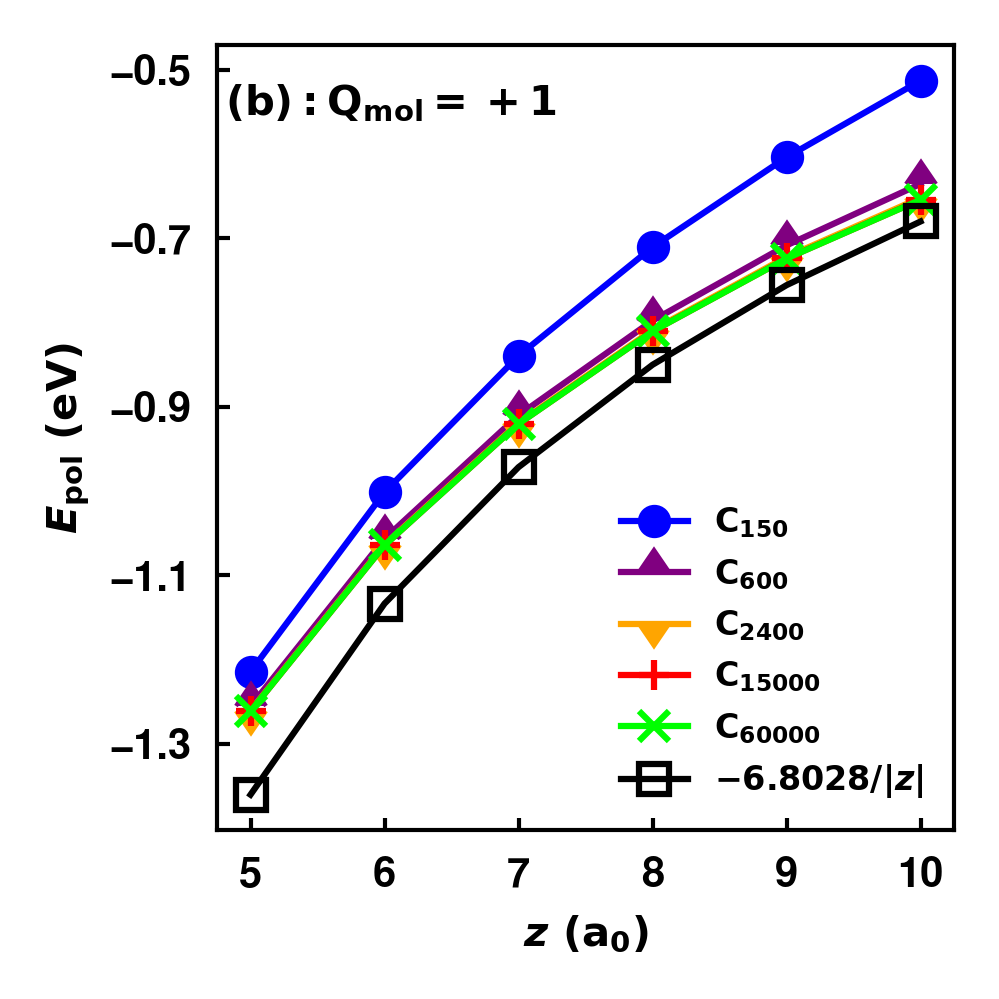
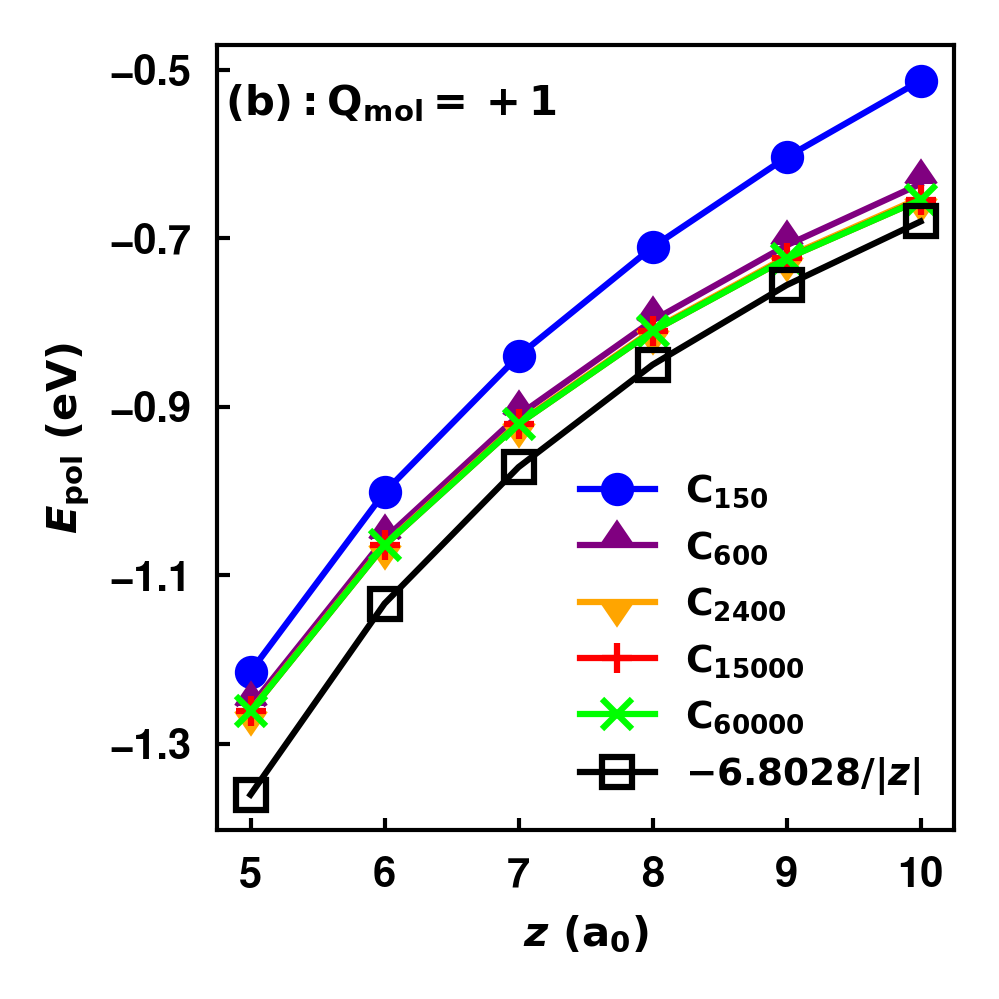
Post figure 2 and figure 3 merge. Moving files and deleting them

Changed region(s): [[0.5586, 0.4655, 0.9309, 0.8068]]

diff --git a/data/polarization_potential/figure_4/figure_4.py b/data/polarization_potential/figure_4/figure_4.py
@@ -18,41 +18,35 @@ rc('axes',linewidth=1,edgecolor='k')
 
 x_dat=np.arange(5,10,0.01)
 
-def func(x, a):  
-    return a/x
+def func_fixed(x,b):  
+    return -6.802846561497/np.abs(x-b)
 
 pot = []
-for filename in sorted(glob.glob("figure_3.csv", recursive=True)):
+for filename in sorted(glob.glob("figure_4.csv", recursive=True)):
     Source = os.path.splitext(filename)[0].split(".")[0]
     data = pd.read_csv(filename, sep=",", dtype=np.float64)
     data_array = data.to_numpy()
     num_rows, num_cols = data_array.shape
     z = data_array[:,0]
-    MMA1 = data_array[:,1]*27.211386245988
-    MMA2 = data_array[:,2]*27.211386245988
-    impot = data_array[:,3]*27.211386245988
-
+    MMA2 = data_array[:,1]*27.211386245988
+    impot = data_array[:,2]*27.211386245988
 
 fig, axs = plt.subplots(1, 1, figsize=(3.33,3.33))
 
-axs.plot(x_dat,-27.211386245988/(4*x_dat),color="black",linestyle='-',markersize=0.01,marker="s",linewidth=2,mfc='none',markeredgewidth=1.5,label=r"$\mathrm{-6.8028/}|\mathit{z}|$")
+axs.plot(x_dat,-27.211386245988/(4*np.abs(x_dat-1.9804329786078072)),color="black",linestyle='-',markersize=0.01,marker="s",linewidth=2,mfc='none',markeredgewidth=1.5,label=r"$\mathrm{-6.8028/|}\mathit{z}\mathrm{-1.98|}$")
 axs.scatter(z,impot,color="black",s=60,facecolors='none',edgecolor='k',linewidth=1.5,marker="s") 
 
-popt, pcov = curve_fit(func,z,MMA1) 
-popt2, pcov2 = curve_fit(func,z,MMA2) 
-axs.plot(x_dat,func(x_dat,*popt),color="red",marker='o',markersize=0.01,linewidth=2,linestyle='-',label=r"$\mathrm{{MMA1:}}{:.4f}/|\mathit{{z}}|$".format(popt[0]))
-axs.plot(x_dat,func(x_dat,*popt2),color="green",marker='^',markersize=0.01,linewidth=2,linestyle='-',label=r"$\mathrm{{MMA2:}}{:.4f}/|\mathit{{z}}|$".format(popt2[0]))
-axs.scatter(z,MMA1,color="red",s=50,marker="o")
+popt4, pcov4 = curve_fit(func_fixed,z,MMA2) 
+axs.plot(x_dat,func_fixed(x_dat,*popt4),color="green",marker='^',markersize=0.01,linewidth=2,linestyle='-',label=r"$MMA2: -6.8028\mathrm{{/|}}\mathit{{z}}-{:.4f}\mathrm{{|}}$".format(popt4[0]))
 axs.scatter(z,MMA2,color="green",s=50,marker="^")
 
-axs.set_xlabel(r"$\mathit{z} \ (a_0)$")    
+axs.set_xlabel(r"$\mathit{z} \ (a_0)$")  
 axs.set_xticks([5,6,7,8,9,10])
-axs.set_yticks([-0.6,-0.8,-1.0,-1.2,-1.4])
 axs.xaxis.set_tick_params(direction="in",length=3,width=1,pad=6.25)
 axs.yaxis.set_tick_params(direction="in",length=3,width=1,pad=6.25)
 axs.grid(False)
-axs.legend(loc="best", frameon=False, markerscale=600, fontsize=9)
+axs.legend(loc="best", frameon=False, fontsize=7, markerscale=600)
 axs.set_ylabel(r"$\mathit{E}_{pol} \ \mathrm{\left( eV \right)}$")
 
 fig.set_tight_layout(True)
-plt.savefig("figure_3.png", dpi=300)
+plt.savefig("figure_4.png", dpi=300)

diff --git a/data/polarization_potential/figure_2/figure_2_c.py b/data/polarization_potential/figure_2/figure_2_c.py
@@ -1,0 +1,59 @@
+import numpy as np
+import matplotlib.pyplot as plt
+from scipy import stats
+import pandas as pd
+import glob 
+import os
+import matplotlib.ticker as mtick
+from matplotlib import rc
+from matplotlib.font_manager import FontProperties
+from scipy.optimize import curve_fit
+
+
+params = {'mathtext.default': 'bf'}
+plt.rcParams.update(params)
+plt.rcParams.update({'font.size': 10})
+rc('font', family='Nimbus Sans', weight='bold')
+rc('axes',linewidth=1,edgecolor='k')
+
+x_dat=np.arange(5,10,0.01)
+
+def func(x, a):  
+    return a/x
+
+pot = []
+for filename in sorted(glob.glob("figure_2_c.csv", recursive=True)):
+    Source = os.path.splitext(filename)[0].split(".")[0]
+    data = pd.read_csv(filename, sep=",", dtype=np.float64)
+    data_array = data.to_numpy()
+    num_rows, num_cols = data_array.shape
+    z = data_array[:,0]
+    MMA1 = data_array[:,1]*27.211386245988
+    MMA2 = data_array[:,2]*27.211386245988
+    impot = data_array[:,3]*27.211386245988
+
+
+fig, axs = plt.subplots(1, 1, figsize=(3.33,3.33))
+
+axs.plot(x_dat,-27.211386245988/(4*x_dat),color="black",linestyle='-',markersize=0.01,marker="s",linewidth=2,mfc='none',markeredgewidth=1.5,label=r"$\mathrm{-6.8028/}|\mathit{z}|$")
+axs.scatter(z,impot,color="black",s=60,facecolors='none',edgecolor='k',linewidth=1.5,marker="s") 
+
+popt, pcov = curve_fit(func,z,MMA1) 
+popt2, pcov2 = curve_fit(func,z,MMA2) 
+axs.plot(x_dat,func(x_dat,*popt),color="red",marker='o',markersize=0.01,linewidth=2,linestyle='-',label=r"$\mathrm{{MMA1:}}{:.4f}/|\mathit{{z}}|$".format(popt[0]))
+axs.plot(x_dat,func(x_dat,*popt2),color="green",marker='^',markersize=0.01,linewidth=2,linestyle='-',label=r"$\mathrm{{MMA2:}}{:.4f}/|\mathit{{z}}|$".format(popt2[0]))
+axs.scatter(z,MMA1,color="red",s=50,marker="o")
+axs.scatter(z,MMA2,color="green",s=50,marker="^")
+axs.text(6.0,-0.65,r"$\mathrm{(c): Q_{mol}=+1}$",horizontalalignment='center',verticalalignment='center')
+
+axs.set_xlabel(r"$\mathit{z} \ (a_0)$")    
+axs.set_xticks([5,6,7,8,9,10])
+axs.set_yticks([-0.6,-0.8,-1.0,-1.2,-1.4])
+axs.xaxis.set_tick_params(direction="in",length=3,width=1,pad=6.25)
+axs.yaxis.set_tick_params(direction="in",length=3,width=1,pad=6.25)
+axs.grid(False)
+axs.legend(loc="best", frameon=False, markerscale=600, fontsize=9)
+axs.set_ylabel(r"$\mathit{E}_{pol} \ \mathrm{\left( eV \right)}$")
+
+fig.set_tight_layout(True)
+plt.savefig("figure_2_c.png", dpi=300)

diff --git a/data/polarization_potential/figure_5/figure_5.py b/data/polarization_potential/figure_5/figure_5.py
@@ -18,8 +18,8 @@ rc('axes',linewidth=1,edgecolor='k')
 
 x_dat=np.arange(5,10,0.01)
 
-def func_fixed(x,b):  
-    return -6.802846561497/np.abs(x-b)
+def func(x, a):  
+    return a/x
 
 pot = []
 for filename in sorted(glob.glob("figure_5.csv", recursive=True)):
@@ -31,22 +31,23 @@ for filename in sorted(glob.glob("figure_5.csv", recursive=True)):
     MMA2 = data_array[:,1]*27.211386245988
     impot = data_array[:,2]*27.211386245988
 
+
 fig, axs = plt.subplots(1, 1, figsize=(3.33,3.33))
 
-axs.plot(x_dat,-27.211386245988/(4*np.abs(x_dat-1.9804329786078072)),color="black",linestyle='-',markersize=0.01,marker="s",linewidth=2,mfc='none',markeredgewidth=1.5,label=r"$\mathrm{-6.8028/|}\mathit{z}\mathrm{-1.98|}$")
-axs.scatter(z,impot,color="black",s=60,facecolors='none',edgecolor='k',linewidth=1.5,marker="s") 
+axs.plot(x_dat,-13.6057/x_dat,color="black",markersize=0.01,marker="s",linewidth=2,mfc='none',markeredgewidth=1.5,label=r"$\mathrm{-13.6057/|}\mathit{z}|$")
+axs.scatter(z,impot,color="black",s=60,linestyle='-',marker="s",linewidth=1.5,edgecolors='k',facecolors='none') 
 
-popt4, pcov4 = curve_fit(func_fixed,z,MMA2) 
-axs.plot(x_dat,func_fixed(x_dat,*popt4),color="green",marker='^',markersize=0.01,linewidth=2,linestyle='-',label=r"$MMA2: -6.8028\mathrm{{/|}}\mathit{{z}}-{:.4f}\mathrm{{|}}$".format(popt4[0]))
+popt, pcov = curve_fit(func,z,MMA2) 
+axs.plot(x_dat,func(x_dat,*popt),color="green",marker="^",markersize=0.01,linewidth=2,linestyle='-',label=r"$\mathrm{{MMA2:}}{:.4f}/|\mathit{{z}}|$".format(popt[0]))
 axs.scatter(z,MMA2,color="green",s=50,marker="^")
 
-axs.set_xlabel(r"$\mathit{z} \ (a_0)$")  
+axs.set_xlabel(r"$\mathit{z} \ (a_0)$")    
 axs.set_xticks([5,6,7,8,9,10])
 axs.xaxis.set_tick_params(direction="in",length=3,width=1,pad=6.25)
 axs.yaxis.set_tick_params(direction="in",length=3,width=1,pad=6.25)
 axs.grid(False)
-axs.legend(loc="best", frameon=False, fontsize=7, markerscale=600)
-axs.set_ylabel(r"$\mathit{E}_{pol} \ \mathrm{\left( eV \right)}$")
+axs.legend(loc="best", frameon=False, fontsize=8, markerscale=600)
+axs.set_ylabel(r"$\mathit{E}_{int} \ \mathrm{\left( eV \right)}$")
 
 fig.set_tight_layout(True)
 plt.savefig("figure_5.png", dpi=300)

diff --git a/data/polarization_potential/figure_2/figure_2.py b/data/polarization_potential/figure_2/figure_2.py
@@ -48,6 +48,7 @@ axs.set_yticks([-0.1,-0.3,-0.5,-0.7,-0.9,-1.1,-1.3])
 axs.xaxis.set_tick_params(direction="in",length=3,width=1,pad=6.25)
 axs.yaxis.set_tick_params(direction="in",length=3,width=1,pad=6.25)
 axs.grid(False)
+axs.legend(loc="lower right", frameon=False, fontsize=7)
 
 fig.set_tight_layout(True)
 plt.savefig("figure_2_a.png", dpi=300)
@@ -85,7 +86,7 @@ axs.set_yticks([-0.5,-0.7,-0.9,-1.1,-1.3])
 axs.xaxis.set_tick_params(direction="in",length=3,width=1,pad=6.25)
 axs.yaxis.set_tick_params(direction="in",length=3,width=1,pad=6.25)
 axs.grid(False)
-axs.legend(loc="lower right", frameon=False, fontsize=8)
+axs.legend(loc="lower right", frameon=False, fontsize=9)
 
 fig.set_tight_layout(True)
 plt.savefig("figure_2_b.png", dpi=300)

diff --git a/data/charge_density/h_equals_10/figure_3b.py b/data/charge_density/h_equals_10/figure_3b.py
@@ -87,4 +87,4 @@ axs.set_xlabel(r"$\mathit{R} \ (a_{0})$")
 axs.set_ylabel(r"$\mathit{q}_{Cumulative} \ (e)$")
 
 fig.set_tight_layout(True)
-plt.savefig("figure_4_b.png",dpi=300)
+plt.savefig("figure_3_b.png",dpi=300)

diff --git a/data/charge_density/h_equals_5/figure_3a.py b/data/charge_density/h_equals_5/figure_3a.py
@@ -87,4 +87,4 @@ axs.set_xlabel(r"$\mathit{R} \ (a_{0})$")
 axs.set_ylabel(r"$\mathit{q}_{Cumulative} \ (e)$")
 
 fig.set_tight_layout(True)
-plt.savefig("figure_4_a.png",dpi=300)
+plt.savefig("figure_3_a.png",dpi=300)
